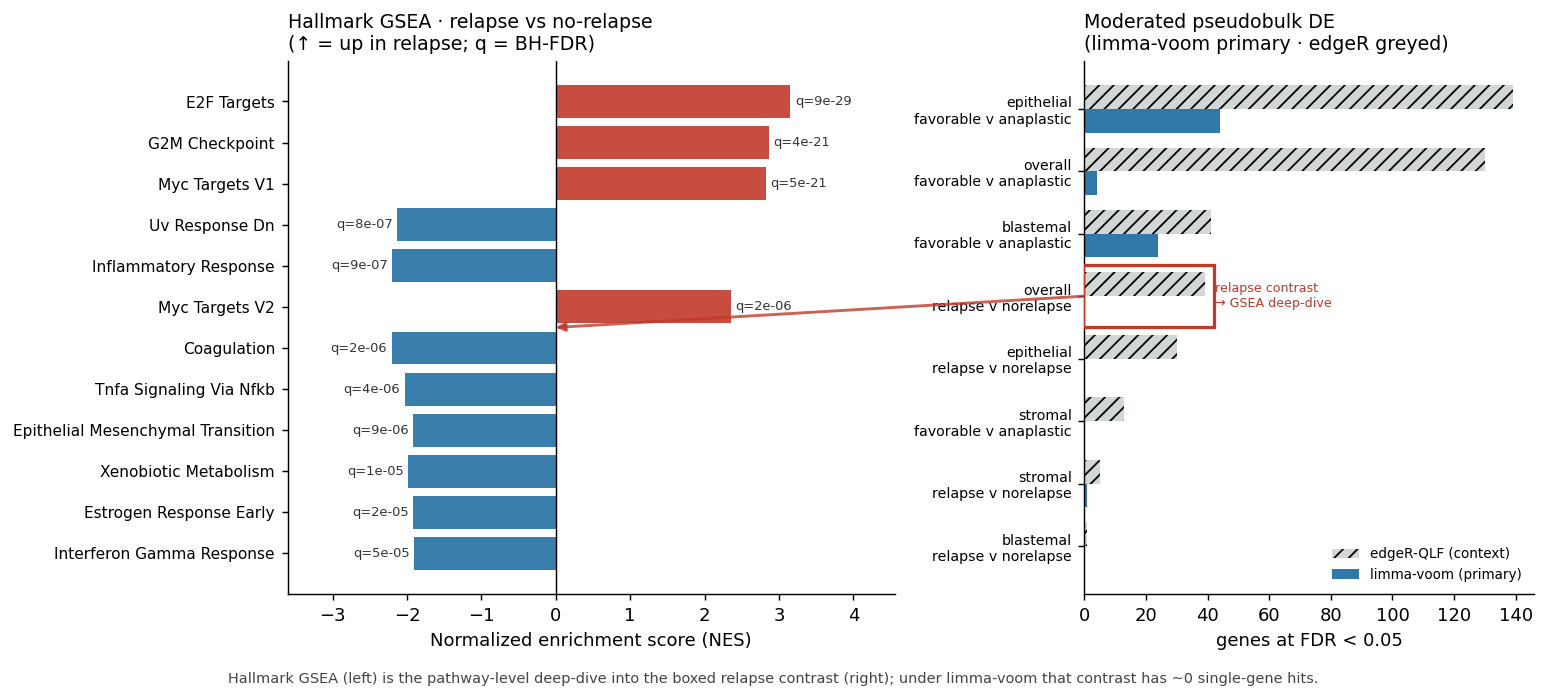
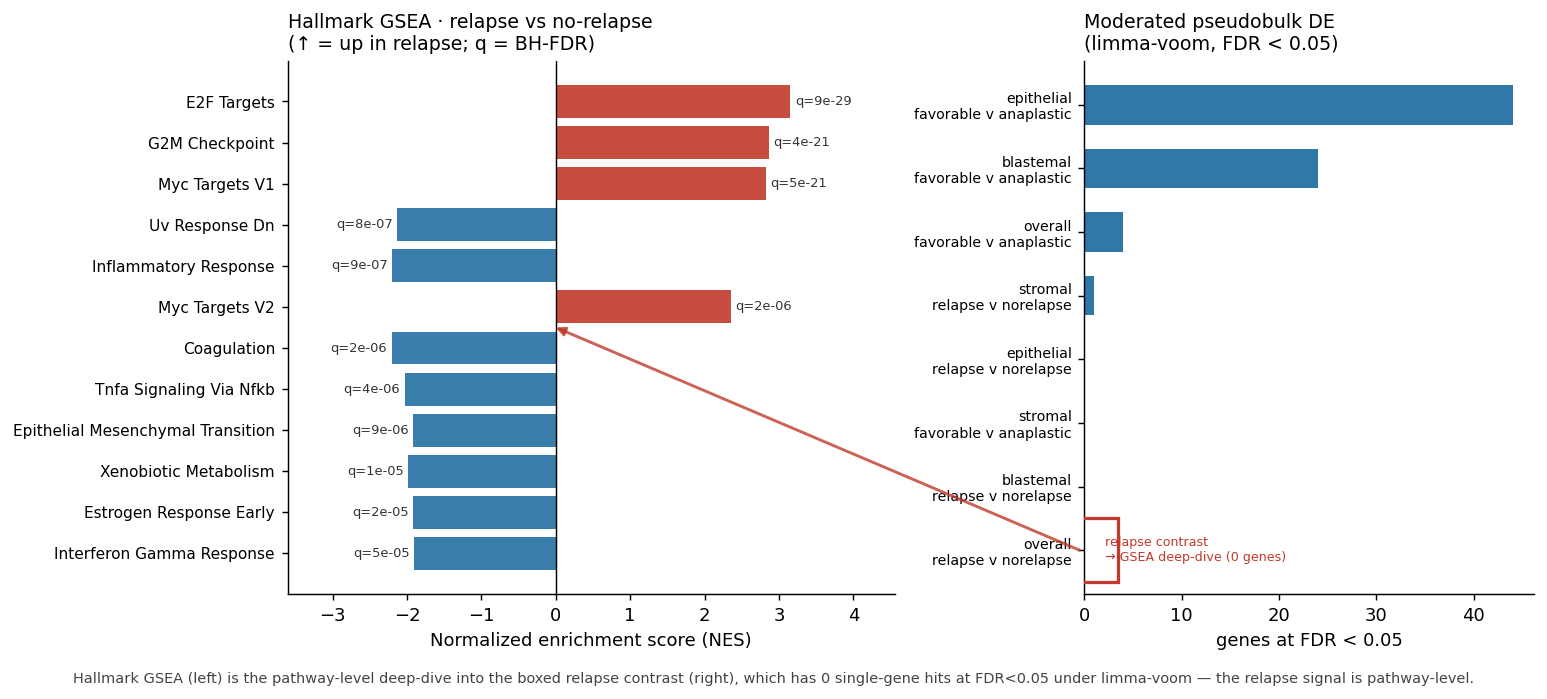
Phase A figure: single-method DE panel (limma-voom), drop the greyed edgeR overlay
Per advisor request, phase_a_gsea_de.png now shows ONE moderated-DE method instead
of limma-voom + greyed edgeR. fig_phase_a() gains a `method` arg (default "voom";
pass "edger" to switch). limma-voom is reported because it is well-calibrated at
this ~40-sample pseudobulk scale, whereas edgeR-QLF is anti-conservative (the ~30x
gap is inflation, not sensitivity); under voom the relapse contrasts are 0 genes, so
the relapse signal is pathway-level (GSEA) — the boxed row + connector now say so.

diff --git a/phase2_histology_ml/18_result_figures.py b/phase2_histology_ml/18_result_figures.py
@@ -27,7 +27,12 @@ plt.rcParams.update({"font.size": 10, "axes.spines.top": False, "axes.spines.rig
 C_UP, C_DN, C_EMB, C_MORPH, C_REF = "#c0392b", "#2471a3", "#1f7a4d", "#b9770e", "#7f8c8d"
 
 
-def fig_phase_a(cfg, figdir):
+def fig_phase_a(cfg, figdir, method="voom"):
+    # method = "voom" (limma-voom, reported) or "edger" (edgeR-QLF). limma-voom is preferred at this
+    # ~40-sample pseudobulk scale: it is well-calibrated, whereas edgeR-QLF is anti-conservative here
+    # (the ~30x gap, e.g. 130 vs 4 genes for the same contrast, is inflation, not sensitivity —
+    # cf. Squair et al. 2021, muscat). Under voom the relapse contrasts -> ~0 genes, so the relapse
+    # signal is pathway-level (GSEA). Pass method="edger" to render the edgeR-QLF version instead.
     gs = pd.read_csv(resolve_path(cfg, "results/mechanotypes/hallmark_gsea.csv"))
     de = pd.read_csv(resolve_path(cfg, "results/mechanotypes/moderated_de_summary.csv"))
     fig, (ax1, ax2) = plt.subplots(1, 2, figsize=(12, 5.2), gridspec_kw={"width_ratios": [1.35, 1]})
@@ -49,39 +54,39 @@ def fig_phase_a(cfg, figdir):
                   fontsize=10.5, loc="left")
     ax1.set_xlim(g["NES"].min() - 1.4, g["NES"].max() + 1.4)
 
-    # --- (b) moderated-DE FDR<0.05 gene counts per contrast ---
-    # limma-voom is the PRIMARY (conservative) series; edgeR-QLF is greyed context (it is
-    # anti-conservative at this small n — the two diverge, esp. for the relapse contrasts where
-    # voom -> ~0 genes, i.e. the relapse signal is pathway-level (GSEA), not individual-gene).
+    # --- (b) moderated-DE FDR<0.05 gene counts per contrast (single method) ---
     from matplotlib.patches import ConnectionPatch, Rectangle
+    col = "voom_fdr05" if method == "voom" else "edgeR_fdr05"
+    mname = "limma-voom" if method == "voom" else "edgeR-QLF"
     de = de.copy()
     de["label"] = de["scope"] + "\n" + de["contrast"].str.replace("_vs_", " v ").str.replace("_", " ")
-    de = de.sort_values("edgeR_fdr05", ascending=True).reset_index(drop=True)
-    y = np.arange(len(de)); h = 0.38
-    ax2.barh(y + h / 2, de["edgeR_fdr05"], h, color=C_REF, alpha=0.35, hatch="///",
-             label="edgeR-QLF (context)")
-    ax2.barh(y - h / 2, de["voom_fdr05"], h, color=C_DN, alpha=0.95, label="limma-voom (primary)")
+    de = de.sort_values(col, ascending=True).reset_index(drop=True)
+    y = np.arange(len(de))
+    ax2.barh(y, de[col], 0.62, color=C_DN, alpha=0.95)
     ax2.set_yticks(y); ax2.set_yticklabels(de["label"], fontsize=7.8)
     ax2.set_xlabel("genes at FDR < 0.05")
-    ax2.set_title("Moderated pseudobulk DE\n(limma-voom primary · edgeR greyed)", fontsize=10.5, loc="left")
-    ax2.legend(fontsize=7.5, loc="lower right", frameon=False)
+    ax2.set_title(f"Moderated pseudobulk DE\n({mname}, FDR < 0.05)", fontsize=10.5, loc="left")
 
     # box the overall relapse contrast and connect it to the GSEA panel that deep-dives it
     rel = de.index[(de["scope"] == "overall") & (de["contrast"] == "relapse_vs_norelapse")]
     if len(rel):
-        ri = int(rel[0])
-        xmax = max(int(de.loc[ri, "edgeR_fdr05"]), int(de.loc[ri, "voom_fdr05"]), 1)
-        ax2.add_patch(Rectangle((-0.5, ri - 0.5), xmax + 3.5, 1.0, fill=False,
+        ri = int(rel[0]); nrel = int(de.loc[ri, col])
+        xmax = max(nrel, 1)
+        ax2.add_patch(Rectangle((-0.5, ri - 0.5), xmax + 3.0, 1.0, fill=False,
                                 edgecolor=C_UP, lw=1.8, zorder=5))
-        ax2.annotate("relapse contrast\n→ GSEA deep-dive", (xmax, ri), xytext=(6, 0),
-                     textcoords="offset points", va="center", fontsize=7, color=C_UP)
+        ax2.annotate(f"relapse contrast\n→ GSEA deep-dive ({nrel} gene{'s' if nrel != 1 else ''})",
+                     (xmax, ri), xytext=(6, 0), textcoords="offset points", va="center",
+                     fontsize=7, color=C_UP)
         con = ConnectionPatch(xyA=(-0.5, ri), coordsA=ax2.transData,
                               xyB=(0.0, (len(g) - 1) / 2.0), coordsB=ax1.transData,
                               arrowstyle="-|>", color=C_UP, lw=1.6, alpha=0.8, zorder=6)
         fig.add_artist(con)
-    fig.text(0.5, -0.02, "Hallmark GSEA (left) is the pathway-level deep-dive into the boxed "
-             "relapse contrast (right); under limma-voom that contrast has ~0 single-gene hits.",
-             ha="center", fontsize=8, color="#444")
+        cap = (f"Hallmark GSEA (left) is the pathway-level deep-dive into the boxed relapse contrast "
+               f"(right), which has {nrel} single-gene hit{'s' if nrel != 1 else ''} at FDR<0.05 under "
+               f"{mname}" + (" — the relapse signal is pathway-level." if method == "voom" else "."))
+    else:
+        cap = f"Moderated pseudobulk DE ({mname})."
+    fig.text(0.5, -0.02, cap, ha="center", fontsize=8, color="#444")
     fig.tight_layout()
     out = figdir / "phase_a_gsea_de.png"; fig.savefig(out); plt.close(fig)
     return out